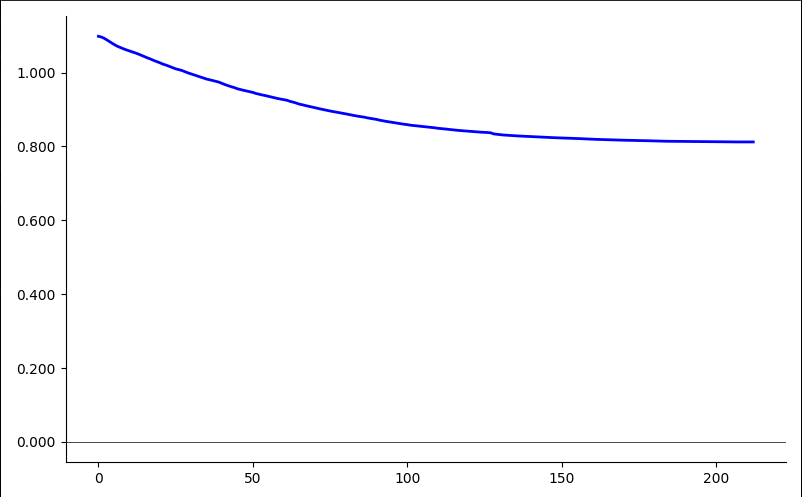
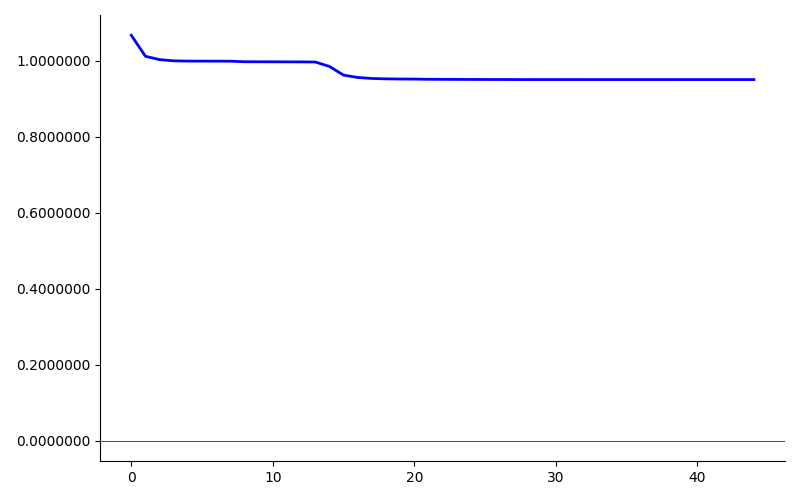
added advanced usage

diff --git a/PythonApplication1/main.py b/PythonApplication1/main.py
@@ -1,6 +1,7 @@
 import numpy as np
 import nnfs
 from nnfs.datasets import spiral_data
+import argparse
 
 from activations import Activation_ReLU, Activatioin_Softmax
 from weightsBiases import Layer_Dense
@@ -8,44 +9,72 @@ from iterate import iteration               #importing needed functions from ano
 from logicManager import Optimiser
 from charts import makeChart
 
-nnfs.init()
-loss = float('inf')         #starting loss
-iterations = 100            #amount of iterations, how much times it would run the optimisation
-change = 0.05               #amount by which weights and biases should change each iteration
-losses = []                 #array to store the last 10 losses
-differenceOfLosses = []     #array to store the differences of the last two losses(for future analysis)
+def generate(iterations, change):
 
-dense1 = Layer_Dense(2, 10)         #weights and biases in the first layer
-activation1 = Activation_ReLU()     #an activation class, that would multiply weights by inputs and would add biases
-
-dense2 = Layer_Dense(10, 5)         #weights and biases in the second layer
-activation2 = Activation_ReLU()     #another one activation class
-
-dense3 = Layer_Dense(5, 3)          #weights and biases in the output layer
-activation3 = Activatioin_Softmax() # 
-
-X, y = spiral_data(samples=100, classes=3)
-
-denses = [dense1, dense2, dense3]                       #all denses are added to one array, to pass them to another functions
-activations = [activation1, activation2, activation3]   #all activations are added to one array, to pass them to another functions
-
-optimiser = Optimiser(X, y, activations, change)        #creating an optimiser object, in future it would do the optimisation
-
-for i in range(0, iterations):          #cycle which will optimize NN the required number of times
-    print(f"Iteration {i}")
-    loss, denses = optimiser.optimise(loss, denses)     #optimising denses
-    print(f"Loss {loss}")
-
-    losses.append(loss)                                                                     # adding the loss to the losses array
-    lastTenLosses = np.array(losses[-10:])                                                  # getting the last 10 losses
-    if np.allclose(lastTenLosses, lastTenLosses[0]) == True and len(losses) > 11:           # if loss hasnt changed in the last 10 iterations breaks
-        break
+    """
+    Generates the images
     
-    if len(losses) > 2 : differenceOfLosses.append(losses[i-1] - losses[i])                 # appends the change in loss to the progressOfLosses array
+    :param iterations: amount of iterations, how much times it would run the optimisation
+    :param change: amount by which weights and biases should change each iteration
+    """
+
+    nnfs.init()
+    loss = float('inf')         #starting loss
+    losses = []                 #array to store the last 10 losses
+    differenceOfLosses = []     #array to store the differences of the last two losses(for future analysis)
+
+    dense1 = Layer_Dense(2, 10)         #weights and biases in the first layer
+    activation1 = Activation_ReLU()     #an activation class, that would multiply weights by inputs and would add biases
+
+    dense2 = Layer_Dense(10, 5)         #weights and biases in the second layer
+    activation2 = Activation_ReLU()     #another one activation class
+
+    dense3 = Layer_Dense(5, 3)          #weights and biases in the output layer
+    activation3 = Activatioin_Softmax() # 
+
+    X, y = spiral_data(samples=100, classes=3)
+
+    denses = [dense1, dense2, dense3]                       #all denses are added to one array, to pass them to another functions
+    activations = [activation1, activation2, activation3]   #all activations are added to one array, to pass them to another functions
+
+    optimiser = Optimiser(X, y, activations, change)        #creating an optimiser object, in future it would do the optimisation
+
+    for i in range(0, iterations):          #cycle which will optimize NN the required number of times
+        print(f"Iteration {i}")
+        loss, denses = optimiser.optimise(loss, denses)     #optimising denses
+        print(f"Loss {loss}")
+
+        losses.append(loss)                                                                     # adding the loss to the losses array
+        lastTenLosses = np.array(losses[-10:])                                                  # getting the last 10 losses
+        if np.allclose(lastTenLosses, lastTenLosses[0]) == True and len(losses) > 11:           # if loss hasnt changed in the last 10 iterations breaks
+            break
+        
+        if len(losses) > 2 : differenceOfLosses.append(losses[i-1] - losses[i])                 # appends the change in loss to the progressOfLosses array
+
+    makeChart(losses, "changeOfLoss.png")
+    makeChart(differenceOfLosses, "changeOfLossPerIteration.png")
 
 
-print(loss)
-print(iterations)
-makeChart(losses)
-makeChart(differenceOfLosses)
-input("Press enter to exit")
+parser = argparse.ArgumentParser()
+
+parser.add_argument(
+    "-i", "--iterations",
+    type=int,
+    default=1000
+)
+
+parser.add_argument(
+    "-m", "--multiplier",
+    type=float,
+    default=0.05
+)
+
+args = parser.parse_args()
+
+if not (1 <= args.iterations):
+    parser.error("iterations must be >= 1")
+
+generate(args.iterations, args.multiplier)
+
+print(f"Iterations: {args.iterations}")
+print(f"Multiplier: {args.multiplier}")

diff --git a/PythonApplication1/charts.py b/PythonApplication1/charts.py
@@ -1,8 +1,9 @@
 import numpy as np
 import matplotlib.pyplot as plt
 import matplotlib.ticker as mticker
+import os
 
-def makeChart(float_list):
+def makeChart(float_list, name):
     x = np.arange(len(float_list))
     y = np.array(float_list, dtype=float)
 
@@ -11,9 +12,9 @@ def makeChart(float_list):
 
     ax.axhline(0, color='black', linewidth=0.5)
 
-    ax.yaxis.set_major_formatter(mticker.FormatStrFormatter('%.3f'))
+    ax.yaxis.set_major_formatter(mticker.FormatStrFormatter('%.7f'))
 
     ax.spines[['top', 'right']].set_visible(False)
     plt.grid(False)
     plt.tight_layout()
-    plt.show()
+    plt.savefig(os.path.join('images', name))

diff --git a/README.md b/README.md
@@ -1,17 +1,33 @@
 Example of a structure of a Neural Network using Proximal Policy Optimization.
 Programmed using a guide from https://youtu.be/Wo5dMEP_BbI?si=ohs4ktQBqep1QmF0.
 
+## Usage
 
-Python version: 3.9.6
-NumPy version: 2.0.2
-Matplotlib version: 3.9.4
+You can start the programm by calling the `main.py` script:
 
+    python3 PythonApplication1/main.py
 
-You can adjust both the number of iterations and the magnitude by which the weights and biases are updated in each iteration.
-At the end of the program, it will display two graphs: the first shows the overall change in loss per iteration, while the second illustrates how the loss varies with each iteration.
-
+After the execution you find this two graphs as result.
 
 The graphs could look like this:
-
 ![changeOfLoss](images/changeOfLoss.png)
 ![examchangeOfLossPerIterationple](images/changeOfLossPerIteration.png)
+
+Advaced usage:
+
+You can adjust both the number of iterations and the magnitude by which the weights and biases are updated in each iteration by using the following parameters.
+
+* `-i` - Number of iterations (positive value > 0, default 10000)
+* `-m` - magnitude (floating point value, default 0.05)
+
+Here is an example:
+
+    python3 PythonApplication1/main.py -i 
+
+
+## Prerequsites
+
+* Python version: 3.9.6 
+* NumPy version: 2.0.2 
+* Matplotlib version: 3.9.4
+
